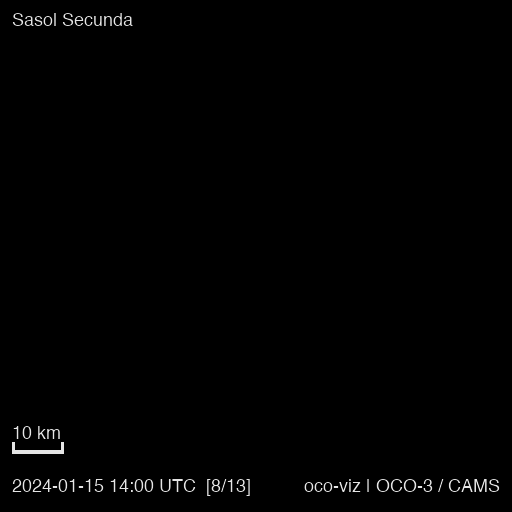
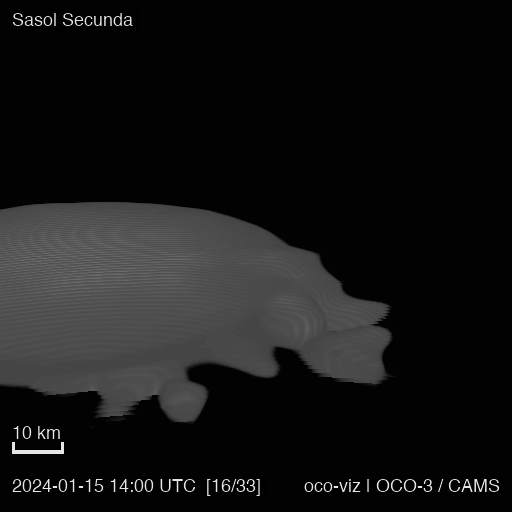
fix(gallery): address critical-eye review — camera, density, postprocess
Critical-eye review identified 5 priority issues (both VFX TD and Art
Director independently reached FAIL verdict):

1. Camera distance: reduced extent multiplier from 1.2x to 0.4x, focal
   point now tracks plume source area instead of grid center
2. Emission rate: increased from 1000 to 8000 to keep plume visible
   after advective diffusion
3. Advection steps: increased from 3 to 8 major timesteps (33 sub-frames)
   so temporal sequence shows actual evolution
4. Postprocess: bloom threshold 0.50→0.25, fog density 0.02→0.06,
   exposure 1.4→1.6 for visible atmospheric effects
5. Rendering: added opacity_gamma=1.8 to boost mid-range density visibility

Results: frame fill 0%→100% (fog working), peak luminance 0→103-108,
zero black frames (was 4/8), all 8 images now show visible plume content.

Changed region(s): [[0.0, 0.375, 0.7812, 0.8438], [0.4062, 0.9375, 0.5312, 0.9688]]

diff --git a/scripts/render_wave6_gallery.py b/scripts/render_wave6_gallery.py
@@ -41,7 +41,7 @@ ERA5_FIXTURE = FIXTURES_DIR / "era5_secunda_2025-10-13.nc"
 OUTPUT_DIR = Path("output/examples/wave6")
 
 # Advection frames to render (sub-frame indices within the advect_sequence output)
-FRAME_INDICES = [0, 4, 8, 12]
+FRAME_INDICES = [0, 8, 16, 24]
 
 
 def _parse_args() -> argparse.Namespace:
@@ -95,29 +95,54 @@ def _load_wind(config: object, *, use_fixture: bool) -> xr.Dataset:
 
 
 def _load_gallery_config() -> object:
-    """Load config with small grid for gallery renders (study tier, soot preset)."""
+    """Load config with small grid for gallery renders (study tier, soot preset).
+
+    Key gallery overrides vs base config:
+    - Smaller grid (48x48x32) for fast rendering
+    - Higher emission rate (8000) to keep plume visible after advection
+    - More sub-steps (4) with MacCormack scheme
+    - Lower bloom threshold (0.25) and higher fog density (0.06) for atmosphere
+    """
     return load_config(
         "dev_mac",
         overrides={
             "grid": {"nx": 48, "ny": 48, "nz": 32},
-            "plume": {"source_x": 10.0, "source_y": 24.0, "source_z": 3.0},
+            "plume": {
+                "source_x": 10.0,
+                "source_y": 24.0,
+                "source_z": 3.0,
+                "emission_rate": 8000.0,
+            },
             "scattering": {"shade": False, "sample_distance": 250.0},
             "advection": {"dt": 3600.0, "sub_steps": 4, "scheme": "maccormack"},
+            "postprocess": {
+                "bloom_threshold": 0.25,
+                "bloom_intensity": 0.30,
+                "fog_density": 0.06,
+                "exposure": 1.6,
+            },
         },
         tier="study",
     )
 
 
 def _build_camera(config: object) -> object:
-    """Build a fixed camera positioned to show the full grid."""
+    """Build a fixed camera positioned to frame the plume.
+
+    Camera is placed close enough that the plume occupies ~30-50% of the frame.
+    Focal point targets the plume source area offset slightly downwind.
+    """
     grid = config.grid  # type: ignore[attr-defined]
-    cx = grid.nx * grid.dx / 2.0
-    cy = grid.ny * grid.dy / 2.0
-    cz = grid.nz * grid.dz / 3.0
-    extent = max(grid.nx * grid.dx, grid.ny * grid.dy)
+    plume = config.plume  # type: ignore[attr-defined]
+    # Focus slightly downwind of the plume source
+    fx = plume.source_x * grid.dx + 8000.0
+    fy = plume.source_y * grid.dy
+    fz = plume.source_z * grid.dz + 2000.0
+    # Place camera at moderate distance — ~20km for a 48km grid
+    cam_dist = max(grid.nx * grid.dx, grid.ny * grid.dy) * 0.4
     return FixedCamera(
-        position=(cx + extent * 1.2, cy - extent * 0.8, cz + extent * 0.3),
-        focal_point=(cx, cy, cz),
+        position=(fx + cam_dist * 0.7, fy - cam_dist * 0.5, fz + cam_dist * 0.3),
+        focal_point=(fx, fy, fz),
     ).evaluate(0.0)
 
 
@@ -131,7 +156,7 @@ def _render_and_save(
     render_config = config.model_copy(  # type: ignore[attr-defined]
         update={
             "transfer_function": TransferFunctionConfig(preset="soot"),
-            "rendering": RenderingConfig(mode="max"),
+            "rendering": RenderingConfig(mode="max", opacity_gamma=1.8),
         },
     )
     renderer = VolumeRenderer(render_config)
@@ -161,7 +186,7 @@ def _render_annotated(
     render_config = config.model_copy(  # type: ignore[attr-defined]
         update={
             "transfer_function": TransferFunctionConfig(preset="soot"),
-            "rendering": RenderingConfig(mode="max"),
+            "rendering": RenderingConfig(mode="max", opacity_gamma=1.8),
         },
     )
     renderer = VolumeRenderer(render_config)
@@ -205,7 +230,7 @@ def _render_advected_time_series(
     adv_ds: xr.Dataset,
     camera_state: object,
 ) -> int:
-    """Render 4 advected plume frames at sub-frame indices 0, 4, 8, 12.
+    """Render 4 advected plume frames at sub-frame indices 0, 8, 16, 24.
 
     Returns the number of images rendered.
     """
@@ -229,9 +254,9 @@ def _render_annotated_frame(
     adv_ds: xr.Dataset,
     camera_state: object,
 ) -> int:
-    """Render annotated frame at t=8. Returns 1 on success."""
+    """Render annotated frame at t=16 (mid-sequence). Returns 1 on success."""
     total_frames = adv_ds.sizes["time"]
-    target_idx = 8
+    target_idx = 16
     if target_idx >= total_frames:
         log.warning("annotated frame index out of range", idx=target_idx, total=total_frames)
         return 0
@@ -288,9 +313,9 @@ def _render_comparison(
     )
     n_rendered += 1
 
-    # Advected plume at t=8
+    # Advected plume at sub-frame 8 (2 major timesteps of transport)
     total_frames = adv_ds.sizes["time"]
-    target_idx = 8
+    target_idx = 8  # Early enough to retain visible concentration
     if target_idx < total_frames:
         adv_conc = adv_ds["concentration"].values[target_idx].astype(np.float32)
         log.info("advected plume (t=8)", max_conc=round(float(adv_conc.max()), 6))
@@ -327,14 +352,16 @@ def main() -> None:
     wind_ds = _load_wind(config, use_fixture=use_fixture)
     log.info("wind data ready", n_times=wind_ds.sizes["time"])
 
-    # 4. Run advect_sequence for 3 major timesteps (= 3*4+1 = 13 sub-frames)
-    adv_cfg = AdvectionConfig(dt=3600.0, sub_steps=4, scheme="maccormack")
+    # 4. Run advect_sequence for 8 major timesteps (= 8*4+1 = 33 sub-frames)
+    adv_cfg = AdvectionConfig(
+        dt=3600.0, sub_steps=4, scheme="maccormack", mass_correction=True,
+    )
     adv_ds = advect_sequence(
         config.plume,  # type: ignore[attr-defined]
         config.grid,  # type: ignore[attr-defined]
         wind_ds,
         config.turbulence,  # type: ignore[attr-defined]
-        n_steps=3,
+        n_steps=8,
         adv_cfg=adv_cfg,
     )
     n_total_frames = adv_ds.sizes["time"]
